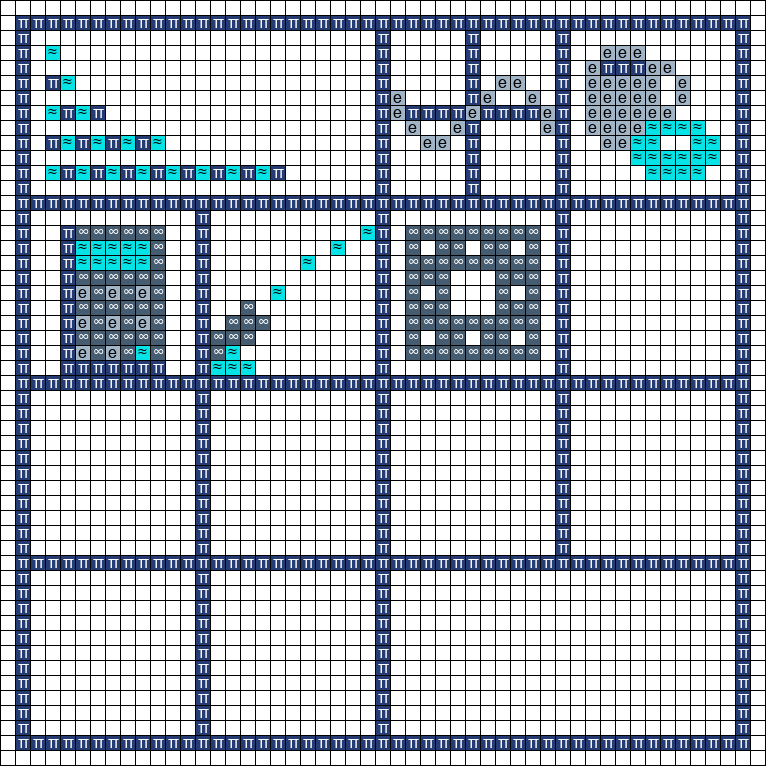
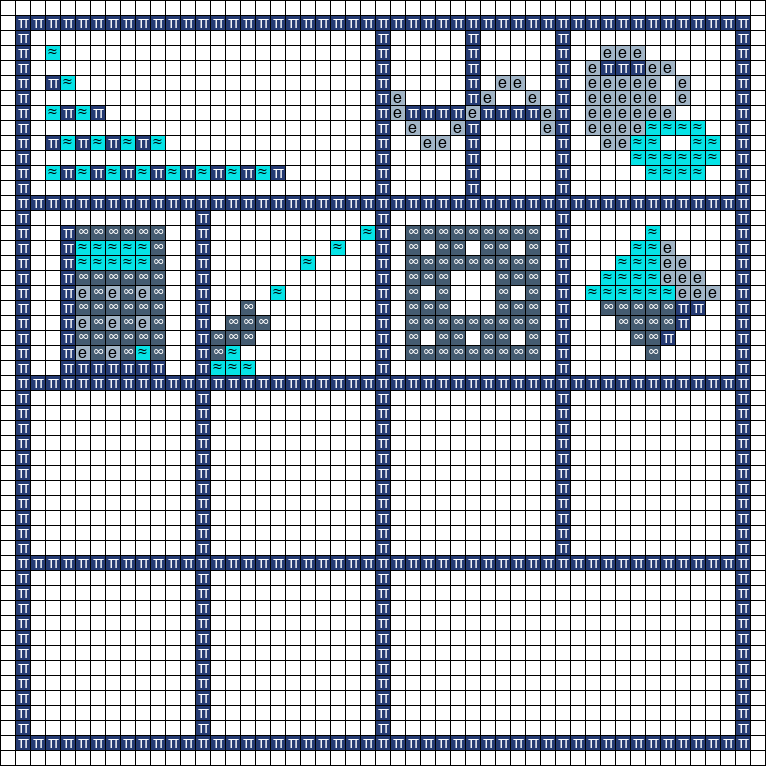
Add part 7!

Changed region(s): [[0.7507, 0.2702, 0.9608, 0.4804]]

diff --git a/app/Part07.php b/app/Part07.php
@@ -1,0 +1,105 @@
+<?php
+namespace App;
+
+use MathPHP\Algebra;
+
+class Part07 extends Part
+{
+    private $colors = [
+        'cyan' => '3846',
+        'blueGrey' => '932',
+        'slateBlue' => '930',
+        'navy' => '336',
+    ];
+
+    private $colorMap = []; // Start with an empty color map. We'll fill it in later
+
+    // The pattern. Each number represents a coresponding function to check the number against
+    // 0: Empty
+    // 1: The product of the first two digits equals the product of the last two digits
+    // 2: A Deficient Number
+    // 3: The sum of the digits is greater than the product of the digits
+    // 4: A Harshad Number
+    private $pattern = [
+        [0, 0, 0, 0, 0, 0, 0, 0, 0, 0, 0],
+        [0, 0, 0, 0, 0, 1, 0, 0, 0, 0, 0],
+        [0, 0, 0, 0, 1, 1, 2, 0, 0, 0, 0],
+        [0, 0, 0, 1, 1, 1, 2, 2, 0, 0, 0],
+        [0, 0, 1, 1, 1, 1, 2, 2, 2, 0, 0],
+        [0, 1, 1, 1, 1, 1, 1, 2, 2, 2, 0],
+        [0, 0, 3, 3, 3, 3, 3, 4, 4, 0, 0],
+        [0, 0, 0, 3, 3, 3, 3, 4, 0, 0, 0],
+        [0, 0, 0, 0, 3, 3, 4, 0, 0, 0, 0],
+        [0, 0, 0, 0, 0, 3, 0, 0, 0, 0, 0],
+        [0, 0, 0, 0, 0, 0, 0, 0, 0, 0, 0],
+    ];
+
+    public function __construct()
+    {
+        $this->setOffset(new Point(38, 14));
+
+        // Build a color map of which functions map to which color
+        foreach ($this->colors as $colorName => $number) {
+            if ($this->productsMatch($number)) {
+                $this->colorMap[1] = $colorName;
+                $this->useColor($colorName, $number);
+            } elseif ($this->isDeficient($number)) {
+                $this->colorMap[2] = $colorName;
+                $this->useColor($colorName, $number);
+            } elseif ($this->sumGreaterThanProduct($number)) {
+                $this->colorMap[3] = $colorName;
+                $this->useColor($colorName, $number);
+            } elseif ($this->isHarshad($number)) {
+                $this->colorMap[4] = $colorName;
+                $this->useColor($colorName, $number);
+            }
+        }
+    }
+
+    private function productsMatch($number)
+    {
+        $firstTwoDigits = substr($number, 0, 2);
+        $lastTwoDigits = substr($number, -2, 2);
+        $productA = $firstTwoDigits[0] * $firstTwoDigits[1];
+        $productB = $lastTwoDigits[0] * $lastTwoDigits[1];
+        return $productA == $productB;
+    }
+
+    private function isDeficient($number)
+    {
+        // A number is deficient if all of its factors (except itself) together
+        // add up to less than the number. Ex.: the factors of 8 are 8, 4, 2,
+        // and 1. 4+2+1=7, which is smaller than 8.
+
+        $factors = Algebra::factors($number); // Get all the factors for this number
+        $factors = array_diff($factors, [$number]); // Remove the number itself
+        $sumOfFactors = array_sum($factors);
+        return ($sumOfFactors < $number);
+    }
+
+    private function sumGreaterThanProduct($number)
+    {
+        $digits = str_split($number);
+        return array_sum($digits) > array_product($digits);
+    }
+
+    public function isHarshad($number)
+    {
+        $digits = str_split($number);
+        $sumOfDigits = array_sum($digits);
+        return $number % $sumOfDigits == 0; // Evenly divisible with remainder of 0
+    }
+
+    public function render()
+    {
+        foreach ($this->pattern as $y => $row) {
+            foreach ($row as $x => $colorId) {
+                if (isset($this->colorMap[$colorId])) {
+                    $this->setColor($this->colorMap[$colorId])->plot(new Point($x, $y));
+                }
+            }
+        }
+
+        return $this;
+    }
+}

diff --git a/app/Part06.php b/app/Part06.php
@@ -40,6 +40,7 @@ class Part06 extends Part
 
         // 3. Remove the square in the center.
         $this->erase($smallSquares[1][1]);
+        unset($smallSquares[1][1]);
 
         // 4. Repeat steps 2 & 3 for each of the eight remaining squares.
         foreach ($smallSquares as $y => $rows) {

diff --git a/app/Part.php b/app/Part.php
@@ -22,7 +22,12 @@ class Part
 
     public function useColor($name, $id)
     {
+        if (isset($this->colors[$name])) {
+            return $this;
+        }
         $this->colors[$name] = new Color($id);
+
+        return $this;
     }
 
     public function getColors()

diff --git a/PiDay.php b/PiDay.php
@@ -14,6 +14,7 @@ class PiDay
         App\Part04::class, // March 4, 2020
         App\Part05::class, // March 5, 2020
         App\Part06::class, // March 6, 2020
+        App\Part07::class, // March 7, 2020
     ];
 
     private $parts = [];
